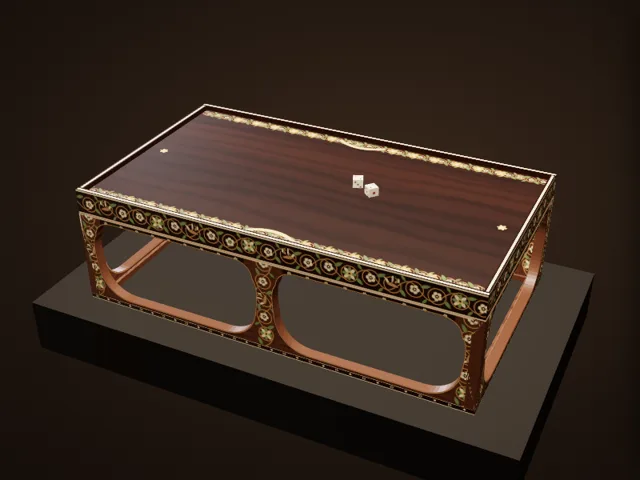
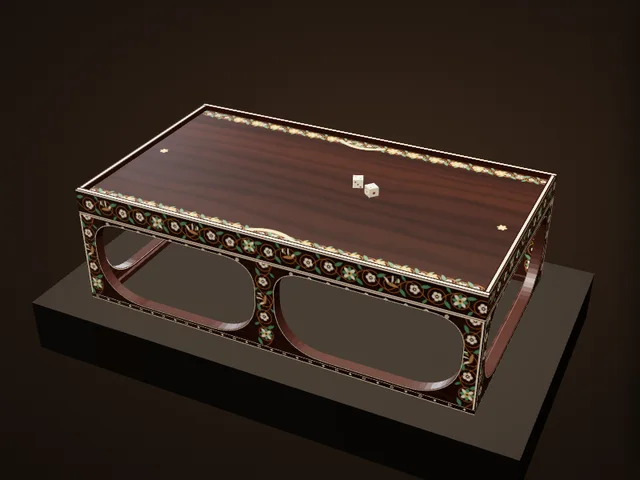
博物館：木画紫檀双六局の台の色・柱の形・唐草の色を細部写真に合わせて修正
Claude-Session: https://claude.ai/code/session_01EiWRAZTxRF5M5nk5vdR2jJ

diff --git a/atlas/museum/ex/sugoroku.js b/atlas/museum/ex/sugoroku.js
@@ -16,12 +16,12 @@
       const G = new TT.Group();
       const L = 54.3, W = 31.0, H = 16.7, RAIL = .8, BASE = 13.3, LIN = .9, EDGE = H - BASE, RIM = .7, RT = .7;   // LIN: the strip of rosettes at the top of the base
       const shT = K.tex(1024, 1024, (g, w, h) => K.grain(g, w, h, { a: '#3e2016', b: '#1f0e09', seed: 37, sx: .5, sy: 9, warp: .45, pores: .004 }));
-      const baseT = K.tex(1024, 1024, (g, w, h) => K.grain(g, w, h, { a: '#6a4026', b: '#4a2a18', seed: 41, sx: .5, sy: 12, warp: .3, pores: .004 }));
+      const baseT = K.tex(1024, 1024, (g, w, h) => K.grain(g, w, h, { a: '#44241a', b: '#25120c', seed: 41, sx: .5, sy: 12, warp: .3, pores: .004 }));
       const shR = K.tex(256, 256, (g, w, h) => K.grain(g, w, h, { a: '#7a7a7a', b: '#4e4e4e', seed: 38, sy: 14 }), { data: true });
       const shitan = K.mat({ map: shT, roughnessMap: shR, color: '#ffffff', roughness: .5, clearcoat: .35, clearcoatRoughness: .35 });
       const inner = K.mat({ map: baseT, color: '#ffffff', roughness: .55, clearcoat: .2, clearcoatRoughness: .4 });
       const ivory = K.mat({ color: '#efe4cc', roughness: .4, clearcoat: .25, clearcoatRoughness: .4 });
-      const C = { iv: '#e4d3aa', grn: '#7f9258', bam: '#c9995e', eb: '#1c0f0a', tan: '#b98a55' };
+      const C = { iv: '#efe6d2', grn: '#5f9a78', bam: '#c98a3c', eb: '#1c0f0a', tan: '#b98a55' };
       /* ---------- marquetry (after the detail photographs) ---------- */
       const flower = (g, x, y, r, k = 0) => { g.save(); g.translate(x, y); g.rotate(k);
         for (let i = 0; i < 5; i++) { g.rotate(Math.PI * 2 / 5); g.beginPath(); g.arc(r * .55, 0, r * .42, 0, 6.29); g.fillStyle = C.iv; g.fill(); g.strokeStyle = 'rgba(40,16,8,.55)'; g.lineWidth = r * .07; g.stroke(); }
@@ -39,7 +39,7 @@
       const scroll = (g, w, h, s, seed, bgT, opt = {}) => {
         g.drawImage(bgT.image, 0, 0, w, h); let sd = seed * 7919 + 1; const rnd = () => (sd = (sd * 16807) % 2147483647) / 2147483647;
         const cy = h / 2, amp = Math.min(h * .26, s * 1.1), per = s * (opt.per || 7);
-        g.strokeStyle = C.bam; g.lineWidth = s * .09; g.lineCap = 'round';
+        g.strokeStyle = C.bam; g.lineWidth = s * .06; g.lineCap = 'round';
         g.beginPath(); for (let x = 0; x <= w; x += 2) { const y = cy + Math.sin(x / per * Math.PI * 2) * amp; x ? g.lineTo(x, y) : g.moveTo(x, y); } g.stroke();
         let k = 0;
         for (let x = per / 4; x < w; x += per / 2, k++) { const up = k % 2 ? 1 : -1, y = cy + up * amp, lr = Math.min(h * .3, s * 1.15);
@@ -94,20 +94,22 @@
         const r = new TT.Mesh(new TT.BoxGeometry(len, RIM, RT), [shitan, shitan, rimTop, shitan, m, shitan]); r.position.set(0, BASE + SL + RIM / 2, off); r.castShadow = r.receiveShadow = true; g.add(r); });
       /* ---------- the base: openings with bowed sides and two-arched tops, a waisted post on the long sides ---------- */
       const SK = BASE - RAIL, OT = SK - .35;   // skirt height, the openings' top
-      const opening = (x0, x1) => { const p = new TT.Path(), cx = (x0 + x1) / 2, rx = 4.2, ry = 5.2, bow = 1.1, top = OT;
-        // the bottom corners in long curves (the legs and the post flare out to their feet), the sides bowing out, the top in two arcs
-        // meeting in a hanging point (photographs)
-        p.moveTo(x0 + rx, .4); p.lineTo(x1 - rx, .4); p.bezierCurveTo(x1 - rx * .3, .4, x1 + bow * .4, ry * .45, x1 + bow * .55, ry); p.quadraticCurveTo(x1 + bow, (ry + top) / 2, x1 + .3, top - 2.6);
-        p.quadraticCurveTo(x1, top - .3, x1 - 2.6, top - .3); p.lineTo(x0 + 2.6, top - .3); p.quadraticCurveTo(x0, top - .3, x0 - .3, top - 2.6);   // a smooth rounded top (detail photograph CO0000011759)
-        p.quadraticCurveTo(x0 - bow, (ry + top) / 2, x0 - bow * .55, ry); p.bezierCurveTo(x0 - bow * .4, ry * .45, x0 + rx * .3, .4, x0 + rx, .4); return p; };
+      const opening = (x0, x1) => { const p = new TT.Path(), top = OT, b0 = .35;
+        // (the Shōsōin's detail photograph of a post: it stands like an hourglass — waisted a little above the middle, sweeping out in a
+        // long curve to the foot and in a shorter one under the top rail; the opening's top is flat)
+        const fx = 6.6, fy = top * .56, tx = 4.0, ty = top * .32, bow = 0;
+        p.moveTo(x0 + fx, b0); p.lineTo(x1 - fx, b0); p.bezierCurveTo(x1 - fx * .35, b0, x1 + bow, fy * .45, x1 + bow, fy);
+        p.lineTo(x1 + bow, top - ty); p.bezierCurveTo(x1 + bow, top - ty * .4, x1 - tx * .4, top - .3, x1 - tx, top - .3);
+        p.lineTo(x0 + tx, top - .3); p.bezierCurveTo(x0 + tx * .4, top - .3, x0 - bow, top - ty * .4, x0 - bow, top - ty);
+        p.lineTo(x0 - bow, fy); p.bezierCurveTo(x0 - bow, fy * .45, x0 + fx * .35, b0, x0 + fx, b0); return p; };
       const skirtFor = (len, n) => { const S = new TT.Shape(); S.moveTo(-len / 2, 0); S.lineTo(len / 2, 0); S.lineTo(len / 2, SK); S.lineTo(-len / 2, SK); S.closePath();
-        const LEG = 2.6, POST = 3.8, ow = (len - 2 * LEG - (n - 1) * POST) / n;
+        const LEG = 2.0, POST = 2.7, ow = (len - 2 * LEG - (n - 1) * POST) / n;
         for (let i = 0; i < n; i++) { const x0 = -len / 2 + LEG + i * (ow + POST); S.holes.push(opening(x0, x0 + ow)); }
         return S; };
       const baseTex = (len, n, seed) => { const S = skirtFor(len, n), s = 2048 / len; return K.tex(2048, Math.round(SK * s), (g, w, h) => {
         g.drawImage(baseT.image, 0, 0, w, h);
         // vertical scrolls up the corner legs and the post (where the wood stands between the openings)
-        const LEG = 2.6, POST = 3.8, nO = S.holes.length, ow = (len - 2 * LEG - (nO - 1) * POST) / nO, cols = [LEG * .55, len - LEG * .55];
+        const LEG = 2.0, POST = 2.7, nO = S.holes.length, ow = (len - 2 * LEG - (nO - 1) * POST) / nO, cols = [LEG * .55, len - LEG * .55];
         for (let i = 1; i < nO; i++) cols.push(LEG + i * ow + (i - .5) * POST);
         const vs = K.tex(512, Math.round(512 * 3.4 / SK), (g2, w2, h2) => scroll(g2, w2, h2, w2 / SK, seed, baseT, { per: 5.2 }));
         cols.forEach(cxm => { g.save(); g.translate(cxm * s, h); g.rotate(-Math.PI / 2); g.globalAlpha = 1; g.drawImage(vs.image, 0, -s * 1.7, h, s * 3.4); g.restore(); });
@@ -117,7 +119,7 @@
         S.holes.forEach(hp => { const xs = hp.getPoints(30).map(p => p.x), xa = (Math.min(...xs) + len / 2) * s, xb = (Math.max(...xs) + len / 2) * s;   // over each opening, a dark strip with rosettes
           g.fillStyle = '#2a140c'; g.fillRect(xa + s * 1.5, s * .14, xb - xa - s * 3, LIN * s); for (let x = xa + s * 2.4; x < xb - s * 2; x += s * 2.4) flower(g, x, s * .14 + LIN * s * .5, s * .26, x); });
         // a bamboo strip following each opening, ivory down the corners
-        g.strokeStyle = C.bam; g.lineWidth = s * .14; S.holes.forEach(hp => { g.beginPath(); hp.getPoints(30).forEach((p, i) => { const X = (p.x + len / 2) * s, Y = h - p.y * s; i ? g.lineTo(X, Y) : g.moveTo(X, Y); }); g.closePath(); g.stroke(); });
+        g.strokeStyle = C.iv; g.lineWidth = s * .13; S.holes.forEach(hp => { g.beginPath(); hp.getPoints(30).forEach((p, i) => { const X = (p.x + len / 2) * s, Y = h - p.y * s; i ? g.lineTo(X, Y) : g.moveTo(X, Y); }); g.closePath(); g.stroke(); });
         g.fillStyle = C.iv; g.fillRect(0, 0, s * .18, h); g.fillRect(w - s * .18, 0, s * .18, h);
       }); };
       const baseMat = (len, n, seed) => { const t = baseTex(len, n, seed); t.repeat.set(1 / len, 1 / SK); t.offset.set(.5, 0); return mk(t); };

diff --git a/atlas/museum.js b/atlas/museum.js
@@ -32,7 +32,7 @@
   const ROOMS = [
     { id: 'map', ready: () => !!window.AtlasMap, render: (el, c) => AtlasMap.render(el, c) },
     { id: 'tree', src: ['museum/tree.js?v=3'], ready: () => !!window.AtlasTree, render: (el, c) => AtlasTree.render(el, c) },
-    { id: 'gallery', src: ['museum/gallery.js?v=49'], ready: () => !!window.AtlasGallery, render: (el, c) => AtlasGallery.render(el, c) },
+    { id: 'gallery', src: ['museum/gallery.js?v=50'], ready: () => !!window.AtlasGallery, render: (el, c) => AtlasGallery.render(el, c) },
   ];
   const KEY = 'atlas-museum-room';
   const esc = s => String(s == null ? '' : s).replace(/[&<>"]/g, c => ({ '&': '&amp;', '<': '&lt;', '>': '&gt;', '"': '&quot;' }[c]));

diff --git a/atlas/index.html b/atlas/index.html
@@ -2559,7 +2559,7 @@ window.AtlasRgdTimer = function (btn, ms, alive) {
 <link rel="stylesheet" href="worldmap.css?v=19">
 <link rel="stylesheet" href="museum.css?v=4">
 <script src="worldmap.js?v=40"></script>
-<script src="museum.js?v=50"></script>
+<script src="museum.js?v=51"></script>
 <script src="npc/npc.js?v=46"></script>
 <script src="avtalk.js?v=4"></script>
 <script>/* Page states as classes on <html> (2026-11-21) — html.cov-on: the 3D view / Historia / a sheet / a level sheet is open;

diff --git a/atlas/museum/gallery.js b/atlas/museum/gallery.js
@@ -10,7 +10,7 @@
    (a turn, a zoom, the slow turntable) and never while the window is in the background. */
 (function () {
   'use strict';
-  const V = 49;
+  const V = 50;
   /* ---------- the pieces: id, the game it belongs to, its scale (cm per model unit), the camera's start, the details ----------
      lock: { game, ach } → open after that many achievements of the game. src: the files the piece needs (besides ex/<id>.js) */
   const EX = [

diff --git a/claude/museum-spec.md b/claude/museum-spec.md
@@ -69,6 +69,7 @@
       - セネト盤：展示写真（正面）に合わせ、台の高さを写真から測った約17cm（全体約25cm）に、脚を太く、足先は4本の長い指（爪は見せない）、金の円筒は段つき、マスの間の黒檀の帯を太く（マスの約1/6）、銘文帯を大きく・王名の輪を引き出しと反対の端に、26〜29番のマスの印（ネフェル3つ・水・鳥3羽・人2人）、投げ棒は茶色の木の2本、距骨は琥珀色2・象牙色1。
     - セネト盤の銘文：グリフィス研究所のカーターの記録カード345-06（箱の文字の写し）に従い、王の五つの名を実際の順で刻む（引き出し側の側面は右から左へ読む向き、王名の輪は左端）。引き出しの口のまわりにも枠状の銘文。引き出しの前板は無地。
     - 木画紫檀棊局：斜め写真から測って、胴5.3cm・開口部5.4cm・床の枠1.0cmに。開口部は正倉院の細部写真（CO0000000428〜430）に合わせ、両端が丸くふくらみ（脚は上3分の2あたりが最も細く、足元へ広がる）、上辺は7つの弧が並んで先が下がる形（先の版の「側辺がまっすぐ」は誤り）。側面の鳥獣は象牙色の地に色をぼかし、細かい点を打つ（撥鏤風）。隅の脚と中央の柱を細く。側面の動物は小さく、色を抑えた。
+    - 木画紫檀双六局：台（脚）も胴と同じ濃い紫檀色に。柱は中ほどがくびれて足元へ長く・上へ短く広がる形、開口部の縁は象牙の細線。唐草の茎は橙がかった細線、葉は青緑。
     - ダイスタワー：博物館写真に合わせて描き直し（青灰色の錫引き、正面板は階段の上で終わる、太い等幅の大文字、側面は四弁の小孔＋八弁ロゼットの方形2段、松かさ3つ、右前の玉縁、丸い4段の階段、鈴）。
     - オスマン盤バックギャモン面：V&A カラー写真 2012FP3720 を測って描き直し（杯＋首＋肩つきの穂先の糸杉形、点の間の貝の板の帯、穂先の下のパルメットと持ち送り・尖頭アーチ、中央の狭・広・狭の3帯）。
   - **「この3Dモデルについて」は2文まで**（2026-11-22 ユーザー指示）：何に基づいたか、どこが推定かだけを短く書く。長い説明は誰も読まない。
